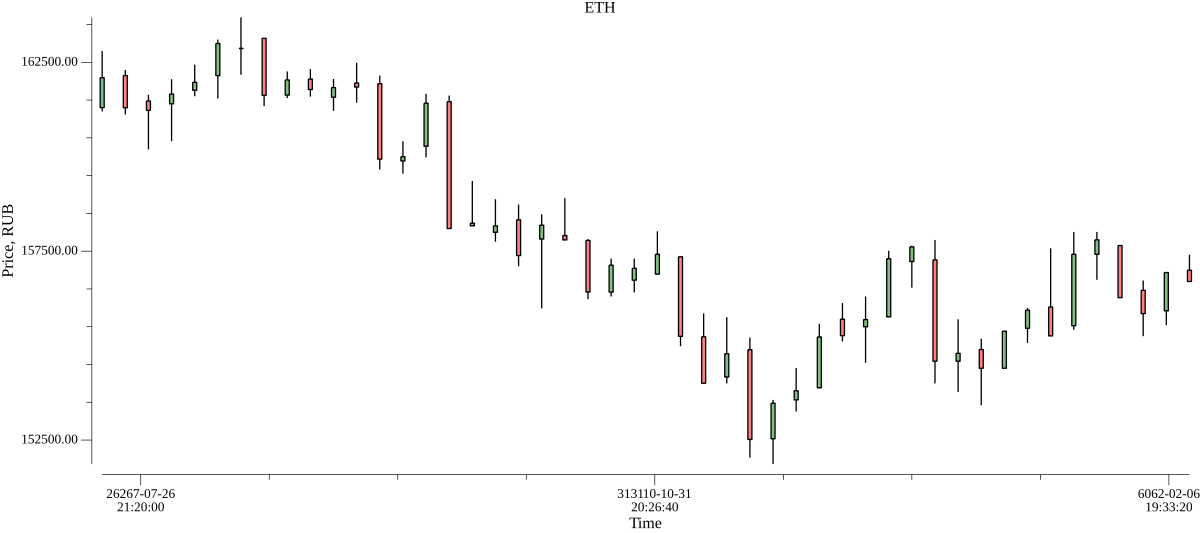
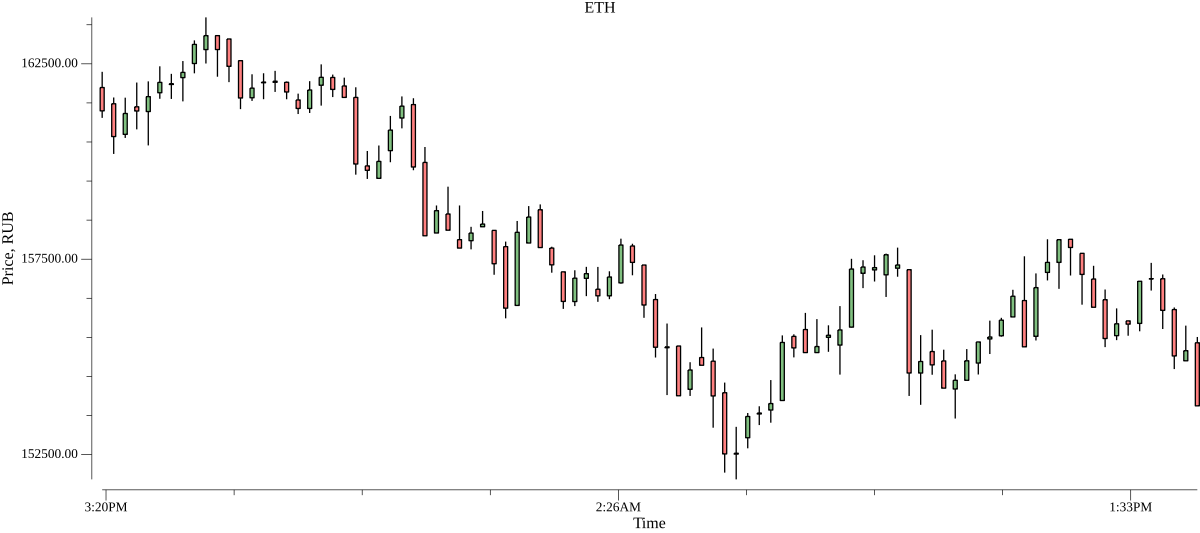
A bit of cleaning

diff --git a/main.go b/main.go
@@ -27,21 +27,6 @@ type bnResp struct {
 	Code  int64   `json:"code"`
 }
 
-// Kline define kline info
-type Kline struct {
-	OpenTime                 int64  `json:"openTime"`
-	Open                     string `json:"open"`
-	High                     string `json:"high"`
-	Low                      string `json:"low"`
-	Close                    string `json:"close"`
-	Volume                   string `json:"volume"`
-	CloseTime                int64  `json:"closeTime"`
-	QuoteAssetVolume         string `json:"quoteAssetVolume"`
-	TradeNum                 int64  `json:"tradeNum"`
-	TakerBuyBaseAssetVolume  string `json:"takerBuyBaseAssetVolume"`
-	TakerBuyQuoteAssetVolume string `json:"takerBuyQuoteAssetVolume"`
-}
-
 type wallet map[string]float64
 
 var db = map[int64]wallet{}
@@ -229,7 +214,7 @@ func getGraph(command []string, currency string, chatId int64, bot *tgbotapi.Bot
 		currencySuffix = "T"
 	}
 
-	apiUrl := fmt.Sprintf("https://api.binance.com/api/v3/klines?symbol=%s%s%s&interval=30m&startTime=%d", symbol, currency, currencySuffix, getLowestTime())
+	apiUrl := fmt.Sprintf("https://api.binance.com/api/v3/klines?symbol=%s%s%s&interval=15m&startTime=%d", symbol, currency, currencySuffix, getLowestTime())
 	resp, err := http.Get(apiUrl)
 	if err != nil {
 		log.Print(err)
@@ -259,18 +244,19 @@ func getGraph(command []string, currency string, chatId int64, bot *tgbotapi.Bot
 			return fmt.Errorf("invalid kline response")
 		}
 		// Time
-		res[i].T = float64(item.GetIndex(0).MustInt64())
+		res[i].T = float64(item.GetIndex(0).MustInt64() / 1000)
+
 		// Open
 		res[i].O, err = strconv.ParseFloat(item.GetIndex(1).MustString(), 64)
 		if err != nil {
 			return fmt.Errorf("invalid kline response")
 		}
-		// Highest
+		// High
 		res[i].H, err = strconv.ParseFloat(item.GetIndex(2).MustString(), 64)
 		if err != nil {
 			return fmt.Errorf("invalid kline response")
 		}
-		// Lowest
+		// Low
 		res[i].L, err = strconv.ParseFloat(item.GetIndex(3).MustString(), 64)
 		if err != nil {
 			return fmt.Errorf("invalid kline response")
@@ -292,7 +278,7 @@ func getGraph(command []string, currency string, chatId int64, bot *tgbotapi.Bot
 	p.Title.Text = symbol
 	p.X.Label.Text = "Time"
 	p.Y.Label.Text = fmt.Sprintf("Price, %s", currency)
-	p.X.Tick.Marker = plot.TimeTicks{Format: "2021-01-02\n15:04:05"}
+	p.X.Tick.Marker = plot.TimeTicks{Format: time.Kitchen}
 
 	bars, err := custplotter.NewCandlesticks(res)
 	if err != nil {

diff --git a/README.md b/README.md
@@ -23,4 +23,4 @@ BOT_TOKEN=<Your bot token>
 
 Попробовал выводить график
 
-`GRAPH <SYMBOL>` - вывести график свечей выбранной криптовалюты, SYMBOL за последние сутки с интервалом 30 мин
+`GRAPH <SYMBOL>` - вывести график свечей выбранной криптовалюты, SYMBOL за последние сутки с интервалом 15 мин
